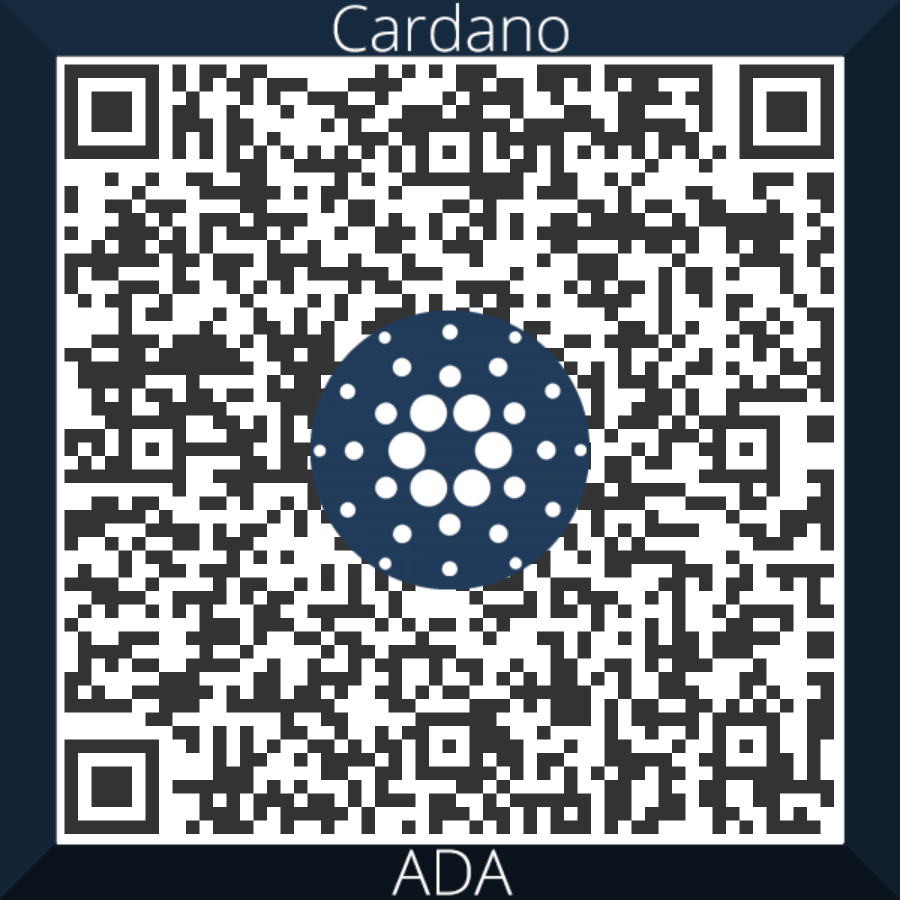
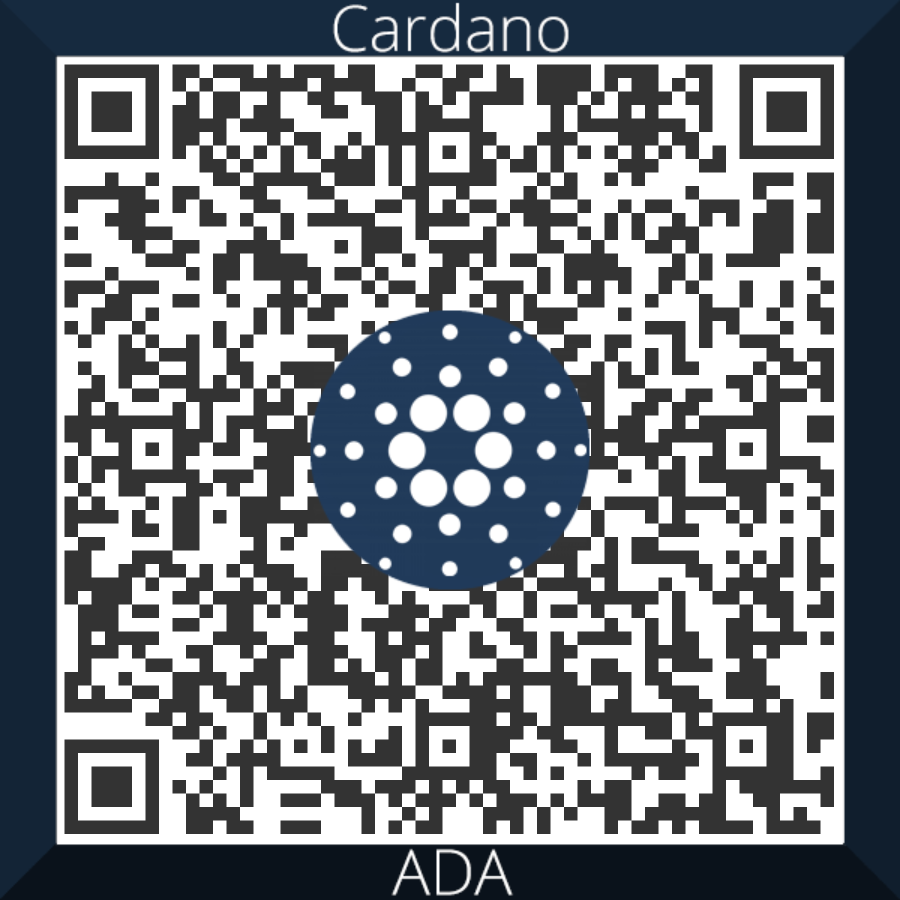
adding qr codes for nft addresses

Changed region(s): [[0.0622, 0.0622, 0.9333, 0.9333], [0.7778, 0.4978, 0.9333, 0.8711], [0.9022, 0.3733, 0.9333, 0.4044]]

diff --git a/nfts/gallery.html b/nfts/gallery.html
@@ -16,16 +16,86 @@
 <!-- partial:index.partial.html -->
 <center>
 <div class="headertext">
-  <p></p>
   CARDANO SPECIES NFTS <br>
-  Powered By Cryptosheinix</p>
+  <p>Powered By Cryptosheinix</p>
+</div>
+<br>
+
+<div id="myModal" class="modal">
+
+  <!-- Modal content -->
+  <div class="modal-content">
+    <span class="close">&times;</span>
+    <p>Species Bag (ADA)</p>
+    <hr>
+    <br>
+    <table>
+      <tr>
+        <td>No</td>
+        <th>Specie</th>
+        <th>ADA Bag</th>
+      </tr>
+      <tr>
+        <td>1</td>
+        <td>Seahorse</td>
+        <td>0-25 ADA</td>
+      </tr>
+      <tr>
+        <td>2</td>
+        <td>Shrimp</td>
+        <td>25-100 ADA</td>
+      </tr>
+      <tr>
+        <td>3</td>
+        <td>Shell</td>
+        <td>100-1000 ADA</td>
+      </tr>
+      <tr>
+        <td>4</td>
+        <td>Starfish</td>
+        <td>1000-2000 ADA</td>
+      </tr>
+      <tr>
+        <td>5</td>
+        <td>Crab</td>
+        <td>2000-5000 ADA</td>
+      </tr>
+      <tr>
+        <td>6</td>
+        <td>Fish</td>
+        <td>5000-10000 ADA</td>
+      </tr>
+      <tr>
+        <td>7</td>
+        <td>Piranha</td>
+        <td>10000-100000 ADA</td>
+      </tr>
+      <tr>
+        <td>8</td>
+        <td>Octopus</td>
+        <td>100000-400000 ADA</td>
+      </tr>
+      <tr>
+        <td>9</td>
+        <td>Shark</td>
+        <td>400000-5000000 ADA</td>
+      </tr>
+      <tr>
+        <td>10</td>
+        <td>Shark</td>
+        <td>5000000 or more ADA</td>
+      </tr>
+    </table>
+  </div>
+
 </div>
 
 <div class="headerdescription">
   This is a collection inspired by the different marine species that exist in Cardano community according to the amount of ADA they have. 
   The more ADA you have in your wallet means that you are one of the largest species. There is no official wallet classification but you can
-  find our classification here.
+  find our classification <a href="#" id="myBtn">here</a>.
 </div>
+
 
 </center>
 <div class="maincontainer">
@@ -39,10 +109,10 @@
   <div class="text">
     <span>Sale ends in</span><br>
     <p class="time" id="seahorse_days"></p>&nbsp;
-    <p class="time"  id="seahorse_hours"></p>&nbsp;
-    <p class="time"  id="seahorse_mins"></p>&nbsp;
-    <p class="time"  id="seahorse_secs"></p>&nbsp;
-    <h2 class="time"  id="seahorse_end"></h2>
+    <p class="time" id="seahorse_hours"></p>&nbsp;
+    <p class="time" id="seahorse_mins"></p>&nbsp;
+    <p class="time" id="seahorse_secs"></p>&nbsp;
+    <h2 class="time" id="seahorse_end"></h2>
   </div>
 </div>
 </a>

diff --git a/nfts/css/gallery.css b/nfts/css/gallery.css
@@ -24,6 +24,10 @@ a { color: inherit; }
   padding-right: 3%;
 }
 
+.headertext p {
+  font-size: 15px !important;
+}
+
 .headerdescription {
   padding-left: 6%;
   padding-right: 6%;
@@ -201,4 +205,53 @@ a { color: inherit; }
   display: inline;
   font-size: 20px;
   margin-top: 0px;
+}
+
+
+/* The Modal (background) */
+.modal {
+  display: none; /* Hidden by default */
+  position: fixed; /* Stay in place */
+  z-index: 1; /* Sit on top */
+  left: 0;
+  top: 0;
+  width: 100%; /* Full width */
+  height: 100%; /* Full height */
+  overflow: auto; /* Enable scroll if needed */
+  background-color: rgb(0,0,0); /* Fallback color */
+  background-color: rgba(0,0,0,0.4); /* Black w/ opacity */
+}
+
+/* Modal Content/Box */
+.modal-content {
+  background-color: #111;
+  margin: 15% auto; /* 15% from the top and centered */
+  padding: 20px;
+  border: 1px solid #111;
+  width: 80%; /* Could be more or less, depending on screen size */
+  color: #fff;
+}
+
+/* The Close Button */
+.close {
+  color: #aaa;
+  float: right;
+  font-size: 28px;
+  font-weight: bold;
+}
+
+.close:hover,
+.close:focus {
+  color: black;
+  text-decoration: none;
+  cursor: pointer;
+}
+
+
+table, th, td {
+  border: 1px solid #fff;
+}
+
+th, td {
+  padding: 10px;
 }

diff --git a/nfts/shrimp.html b/nfts/shrimp.html
@@ -3,7 +3,7 @@
 
 <head>
   <meta charset="UTF-8">
-  <title>CodePen - [Babylon.js Viewer] Add glb to windows mixed reality home</title>
+  <title>Cardano Species NFTs</title>
   <link rel="stylesheet" href="css/glb.css">
   <link rel="stylesheet" href="css/nftpage.css">
   <link rel="stylesheet" href="css/gallery.css">
@@ -16,7 +16,7 @@
   <html>
 
   <head>
-    <title>View 3D NFT</title>
+    <title>3D View NFT</title>
   </head>
 
   <body>
@@ -38,7 +38,7 @@
 
         <div class="input-group mb-3">
           <input id="address" type="text" readonly="readonly" class="form-control"
-            value="addr1foxkcdfjowiejflkwjefoiwjidjofisjoidfjsi">
[1 lines of base64/hex data omitted]
           <button data-toggle="tooltip" class="btn btn-outline-primary" type="button" id="copy"
             data-clipboard-target="#address">Copy</button>
         </div>

diff --git a/nfts/js/gallery.js b/nfts/js/gallery.js
@@ -121,3 +121,30 @@ function updateTime(specie,countDownDate,functionName) {
   }
 }
 
+
+// Get the modal
+var modal = document.getElementById("myModal");
+
+// Get the button that opens the modal
+var btn = document.getElementById("myBtn");
+
+// Get the <span> element that closes the modal
+var span = document.getElementsByClassName("close")[0];
+
+// When the user clicks on the button, open the modal
+btn.onclick = function() {
+  modal.style.display = "block";
+}
+
+// When the user clicks on <span> (x), close the modal
+span.onclick = function() {
+  modal.style.display = "none";
+}
+
+// When the user clicks anywhere outside of the modal, close it
+window.onclick = function(event) {
+  if (event.target == modal) {
+    modal.style.display = "none";
+  }
+}
+

diff --git a/nfts/seahorse.html b/nfts/seahorse.html
@@ -38,7 +38,7 @@
 
         <div class="input-group mb-3">
           <input id="address" type="text" readonly="readonly" class="form-control"
-            value="addr1foxkcdfjowiejflkwjefoiwjidjofisjoidfjsi">
[1 lines of base64/hex data omitted]
           <button data-toggle="tooltip" class="btn btn-outline-primary" type="button" id="copy"
             data-clipboard-target="#address">Copy</button>
         </div>
